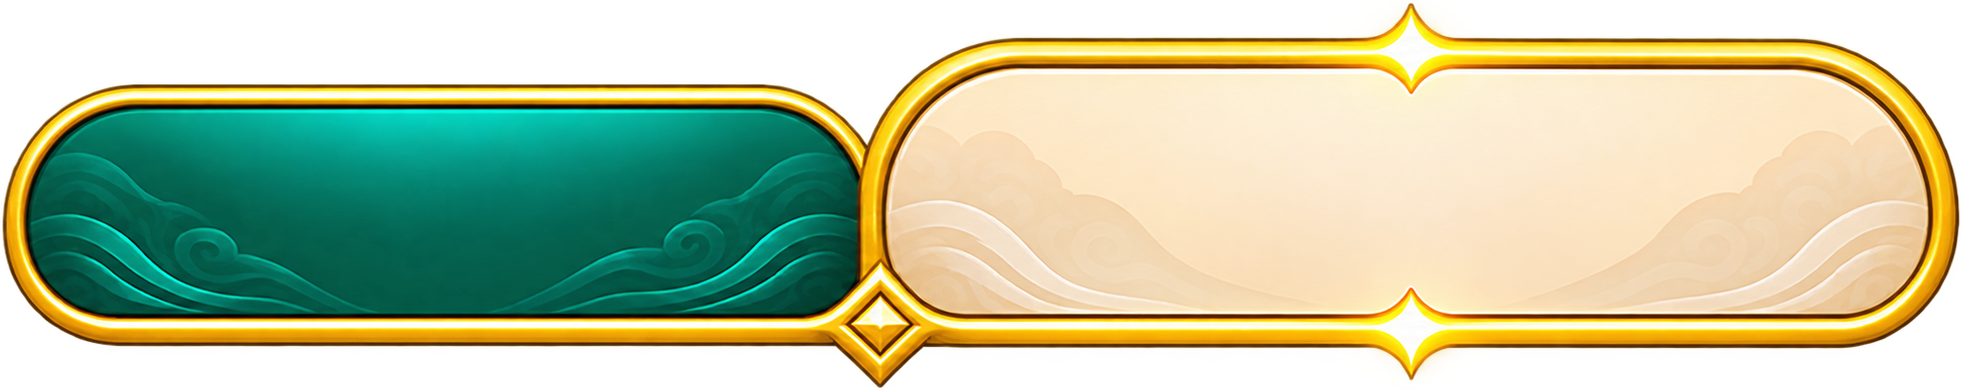
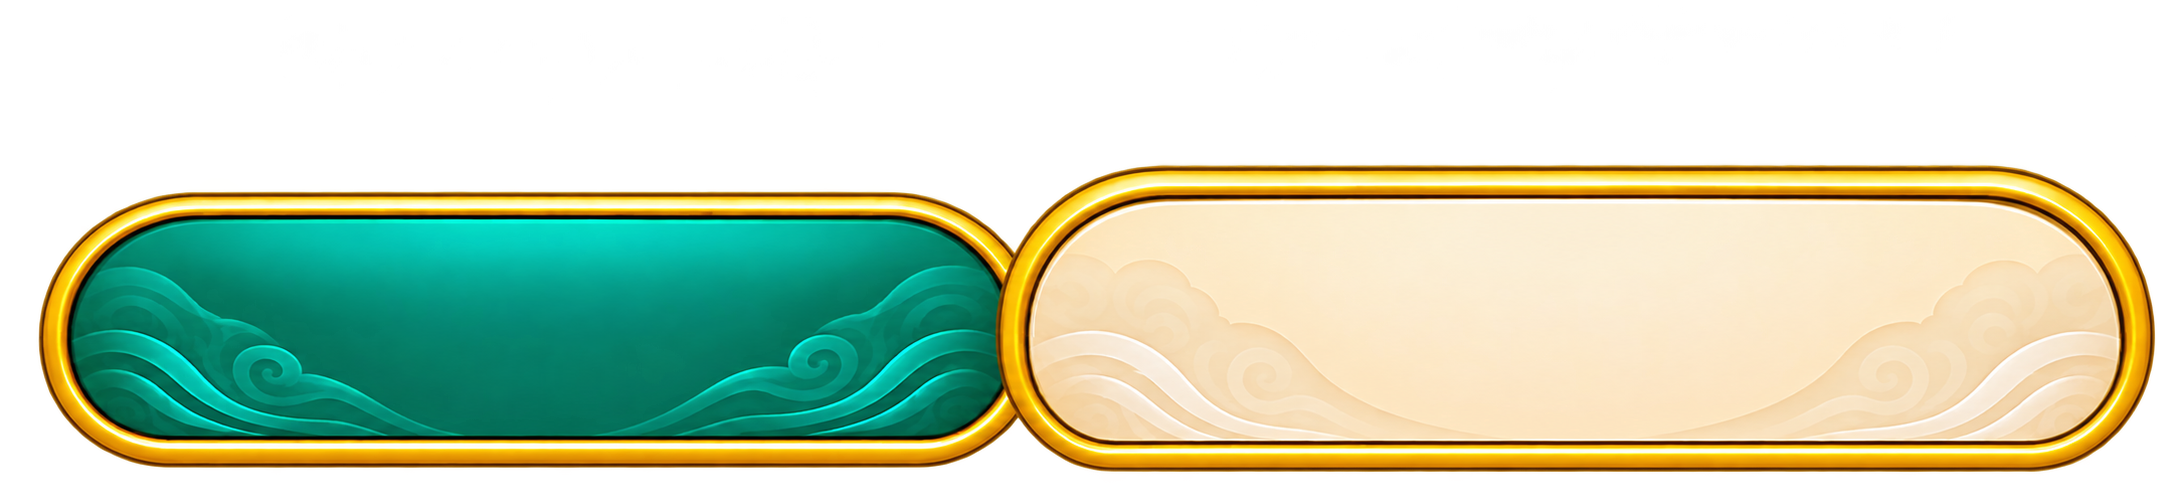
.

diff --git a/src/components/LoginScreen.tsx b/src/components/LoginScreen.tsx
@@ -10,9 +10,12 @@ import {
   signInWithEmailAndPassword, 
   createUserWithEmailAndPassword,
   signInAnonymously,
-  sendPasswordResetEmail
+  sendPasswordResetEmail,
+  GoogleAuthProvider,
+  signInWithPopup
 } from 'firebase/auth';
-import { auth } from '../services/firebase';
+import { doc, setDoc, getDoc, serverTimestamp } from 'firebase/firestore';
+import { auth, db } from '../services/firebase';
 
 interface LoginScreenProps {
   onLoginSuccess: () => void;
@@ -62,10 +65,34 @@ export const LoginScreen: React.FC<LoginScreenProps> = ({ onLoginSuccess }) => {
     setLoading(true);
     try {
       if (tab === 'login') {
-        await signInWithEmailAndPassword(auth, normalizedEmail, password);
+        const cred = await signInWithEmailAndPassword(auth, normalizedEmail, password);
+        // Cập nhật thời điểm đăng nhập gần nhất vào Firestore
+        try {
+          await setDoc(doc(db, 'users', cred.user.uid), {
+            lastLoginAt: serverTimestamp(),
+          }, { merge: true });
+        } catch (dbErr) {
+          console.warn('Không thể cập nhật Firestore:', dbErr);
+        }
         onLoginSuccess();
       } else {
-        await createUserWithEmailAndPassword(auth, normalizedEmail, password);
+        const cred = await createUserWithEmailAndPassword(auth, normalizedEmail, password);
+        // Lưu hồ sơ nhân vật/người dùng vào Firestore
+        try {
+          await setDoc(doc(db, 'users', cred.user.uid), {
+            uid: cred.user.uid,
+            email: normalizedEmail,
+            displayName: normalizedEmail.split('@')[0],
+            providerId: 'password',
+            createdAt: serverTimestamp(),
+            lastLoginAt: serverTimestamp(),
+            role: 'player',
+            realm: 'Luyện Khí Tầng 1',
+            spiritualRoot: 'Chưa khảo nghiệm',
+          }, { merge: true });
+        } catch (dbErr) {
+          console.warn('Không thể lưu hồ sơ vào Firestore:', dbErr);
+        }
         setSuccessMsg('Đăng ký tài khoản thành công!');
         setTimeout(() => {
           onLoginSuccess();
@@ -86,6 +113,62 @@ export const LoginScreen: React.FC<LoginScreenProps> = ({ onLoginSuccess }) => {
         msg = 'Thử lại quá nhiều lần. Vui lòng đợi trong giây lát!';
       }
       setErrorMsg(msg);
+    } finally {
+      setLoading(false);
+    }
+  };
+
+  // Đăng nhập bằng Google và lưu vào Firebase Auth + Firestore
+  const handleGoogleLogin = async () => {
+    setLoading(true);
+    setErrorMsg(null);
+    setSuccessMsg(null);
+    try {
+      const provider = new GoogleAuthProvider();
+      provider.setCustomParameters({ prompt: 'select_account' });
+      const result = await signInWithPopup(auth, provider);
+      const user = result.user;
+
+      // Lưu/Cập nhật thông tin đạo hữu vào Firestore (collection 'users')
+      const userRef = doc(db, 'users', user.uid);
+      const userSnap = await getDoc(userRef);
+
+      const baseUserData: Record<string, any> = {
+        uid: user.uid,
+        email: user.email || '',
+        displayName: user.displayName || 'Đạo Hữu',
+        photoURL: user.photoURL || '',
+        providerId: 'google.com',
+        lastLoginAt: serverTimestamp(),
+      };
+
+      if (!userSnap.exists()) {
+        // Tài khoản mới đăng nhập lần đầu
+        baseUserData.createdAt = serverTimestamp();
+        baseUserData.role = 'player';
+        baseUserData.realm = 'Luyện Khí Tầng 1';
+        baseUserData.spiritualRoot = 'Chưa khảo nghiệm';
+      }
+
+      await setDoc(userRef, baseUserData, { merge: true });
+
+      setSuccessMsg('Đăng nhập Google thành công!');
+      setTimeout(() => {
+        onLoginSuccess();
+      }, 500);
+    } catch (err: any) {
+      console.error('Google Sign-In error:', err);
+      if (err.code === 'auth/popup-closed-by-user') {
+        setErrorMsg('Đã đóng cửa sổ đăng nhập Google.');
+      } else if (err.code === 'auth/cancelled-popup-request') {
+        // Đã mở popup khác
+      } else if (err.code === 'auth/popup-blocked') {
+        setErrorMsg('Trình duyệt đã chặn cửa sổ pop-up. Vui lòng cấp quyền pop-up để đăng nhập!');
+      } else if (err.code === 'auth/network-request-failed') {
+        setErrorMsg('Lỗi kết nối mạng, vui lòng thử lại!');
+      } else {
+        setErrorMsg('Đăng nhập Google thất bại: ' + (err.message || 'Lỗi không xác định'));
+      }
     } finally {
       setLoading(false);
     }
@@ -154,7 +237,7 @@ export const LoginScreen: React.FC<LoginScreenProps> = ({ onLoginSuccess }) => {
         <div className="relative w-full aspect-[916/1136] flex flex-col items-center">
           
           {/* 1. Lớp hình ảnh nền 2 nút Tab (z-10 NẰM DƯỚI Khung Đăng Nhập z-20) */}
-          <div className="absolute -top-[5.2%] sm:-top-[5%] left-1/2 -translate-x-1/2 w-[88%] sm:w-[86%] aspect-[1958/397] z-10 pointer-events-none">
+          <div className="absolute -top-[8.5%] sm:-top-[8%] left-1/2 -translate-x-1/2 w-[88%] sm:w-[86%] aspect-[2172/483] z-10 pointer-events-none">
             <img
               src={tab === 'login' ? tabLogin : tabRegister}
               alt="Tab Selection"
@@ -170,18 +253,18 @@ export const LoginScreen: React.FC<LoginScreenProps> = ({ onLoginSuccess }) => {
           />
 
           {/* 3. Lớp văn bản & nút bấm click của 2 Tab (z-40 NẰM TRÊN CÙNG để click thoải mái) */}
-          <div className="absolute -top-[5.2%] sm:-top-[5%] left-1/2 -translate-x-1/2 w-[88%] sm:w-[86%] aspect-[1958/397] z-40 flex pointer-events-auto">
+          <div className="absolute -top-[8.5%] sm:-top-[8%] left-1/2 -translate-x-1/2 w-[88%] sm:w-[86%] aspect-[2172/483] z-40 flex pointer-events-auto">
             {/* Nút Tab Đăng Nhập (Trái) */}
             <button
               type="button"
               onClick={() => { setTab('login'); setErrorMsg(null); setSuccessMsg(null); }}
-              className="w-1/2 h-full flex items-center justify-center pt-0.5 sm:pt-1 cursor-pointer transition-all duration-200 select-none"
+              className="w-1/2 h-full flex items-center justify-center cursor-pointer transition-all duration-200 select-none"
             >
               <span
-                className={`transition-all duration-200 tracking-wide ${
+                className={`transition-all duration-200 translate-y-[9px] sm:translate-y-[10px] ${
                   tab === 'login'
-                    ? 'text-sm sm:text-[15px] font-extrabold text-[#1c2e27] drop-shadow-[0_1px_1px_rgba(255,255,255,0.9)] scale-105 translate-x-2 sm:translate-x-2.5'
-                    : 'text-xs sm:text-[12px] font-semibold text-[#fbf7ee]/85 drop-shadow-[0_1px_2px_rgba(0,0,0,0.85)] scale-95 translate-x-0'
+                    ? 'text-xs sm:text-sm font-extrabold text-[#0e1c15] tracking-wider drop-shadow-[0_1px_1px_rgba(255,255,255,0.8)] translate-x-2 sm:translate-x-2.5'
+                    : 'text-xs sm:text-[13px] font-medium text-[#fbf7ee]/75 tracking-normal drop-shadow-[0_1px_1px_rgba(0,0,0,0.6)] translate-x-0'
                 }`}
               >
                 Đăng nhập
@@ -192,13 +275,13 @@ export const LoginScreen: React.FC<LoginScreenProps> = ({ onLoginSuccess }) => {
             <button
               type="button"
               onClick={() => { setTab('register'); setErrorMsg(null); setSuccessMsg(null); }}
-              className="w-1/2 h-full flex items-center justify-center pt-0.5 sm:pt-1 cursor-pointer transition-all duration-200 select-none"
+              className="w-1/2 h-full flex items-center justify-center cursor-pointer transition-all duration-200 select-none"
             >
               <span
-                className={`transition-all duration-200 tracking-wide ${
+                className={`transition-all duration-200 translate-y-[9px] sm:translate-y-[10px] ${
                   tab === 'register'
-                    ? 'text-sm sm:text-[15px] font-extrabold text-[#1c2e27] drop-shadow-[0_1px_1px_rgba(255,255,255,0.9)] scale-105 -translate-x-2 sm:-translate-x-2.5'
-                    : 'text-xs sm:text-[12px] font-semibold text-[#fbf7ee]/85 drop-shadow-[0_1px_2px_rgba(0,0,0,0.85)] scale-95 translate-x-0'
+                    ? 'text-xs sm:text-sm font-extrabold text-[#0e1c15] tracking-wider drop-shadow-[0_1px_1px_rgba(255,255,255,0.8)] -translate-x-2 sm:-translate-x-2.5'
+                    : 'text-xs sm:text-[13px] font-medium text-[#fbf7ee]/75 tracking-normal drop-shadow-[0_1px_1px_rgba(0,0,0,0.6)] translate-x-0'
                 }`}
               >
                 Đăng ký
@@ -342,9 +425,10 @@ export const LoginScreen: React.FC<LoginScreenProps> = ({ onLoginSuccess }) => {
               {/* Google */}
               <button
                 type="button"
-                onClick={handleGuestLogin}
+                onClick={handleGoogleLogin}
+                disabled={loading}
                 title="Đăng nhập Google"
-                className="w-7.5 h-7.5 sm:w-8 sm:h-8 rounded-full bg-white border border-[#dfd4be] shadow-sm flex items-center justify-center hover:scale-105 transition-transform cursor-pointer"
+                className="w-7.5 h-7.5 sm:w-8 sm:h-8 rounded-full bg-white border border-[#dfd4be] shadow-sm flex items-center justify-center hover:scale-105 active:scale-95 transition-transform cursor-pointer disabled:opacity-50"
               >
                 <svg className="w-3.5 h-3.5 sm:w-4 sm:h-4" viewBox="0 0 24 24">
                   <path fill="#4285F4" d="M22.56 12.25c0-.78-.07-1.53-.2-2.25H12v4.26h5.92c-.26 1.37-1.04 2.53-2.21 3.31v2.77h3.57c2.08-1.92 3.28-4.74 3.28-8.09z" />
